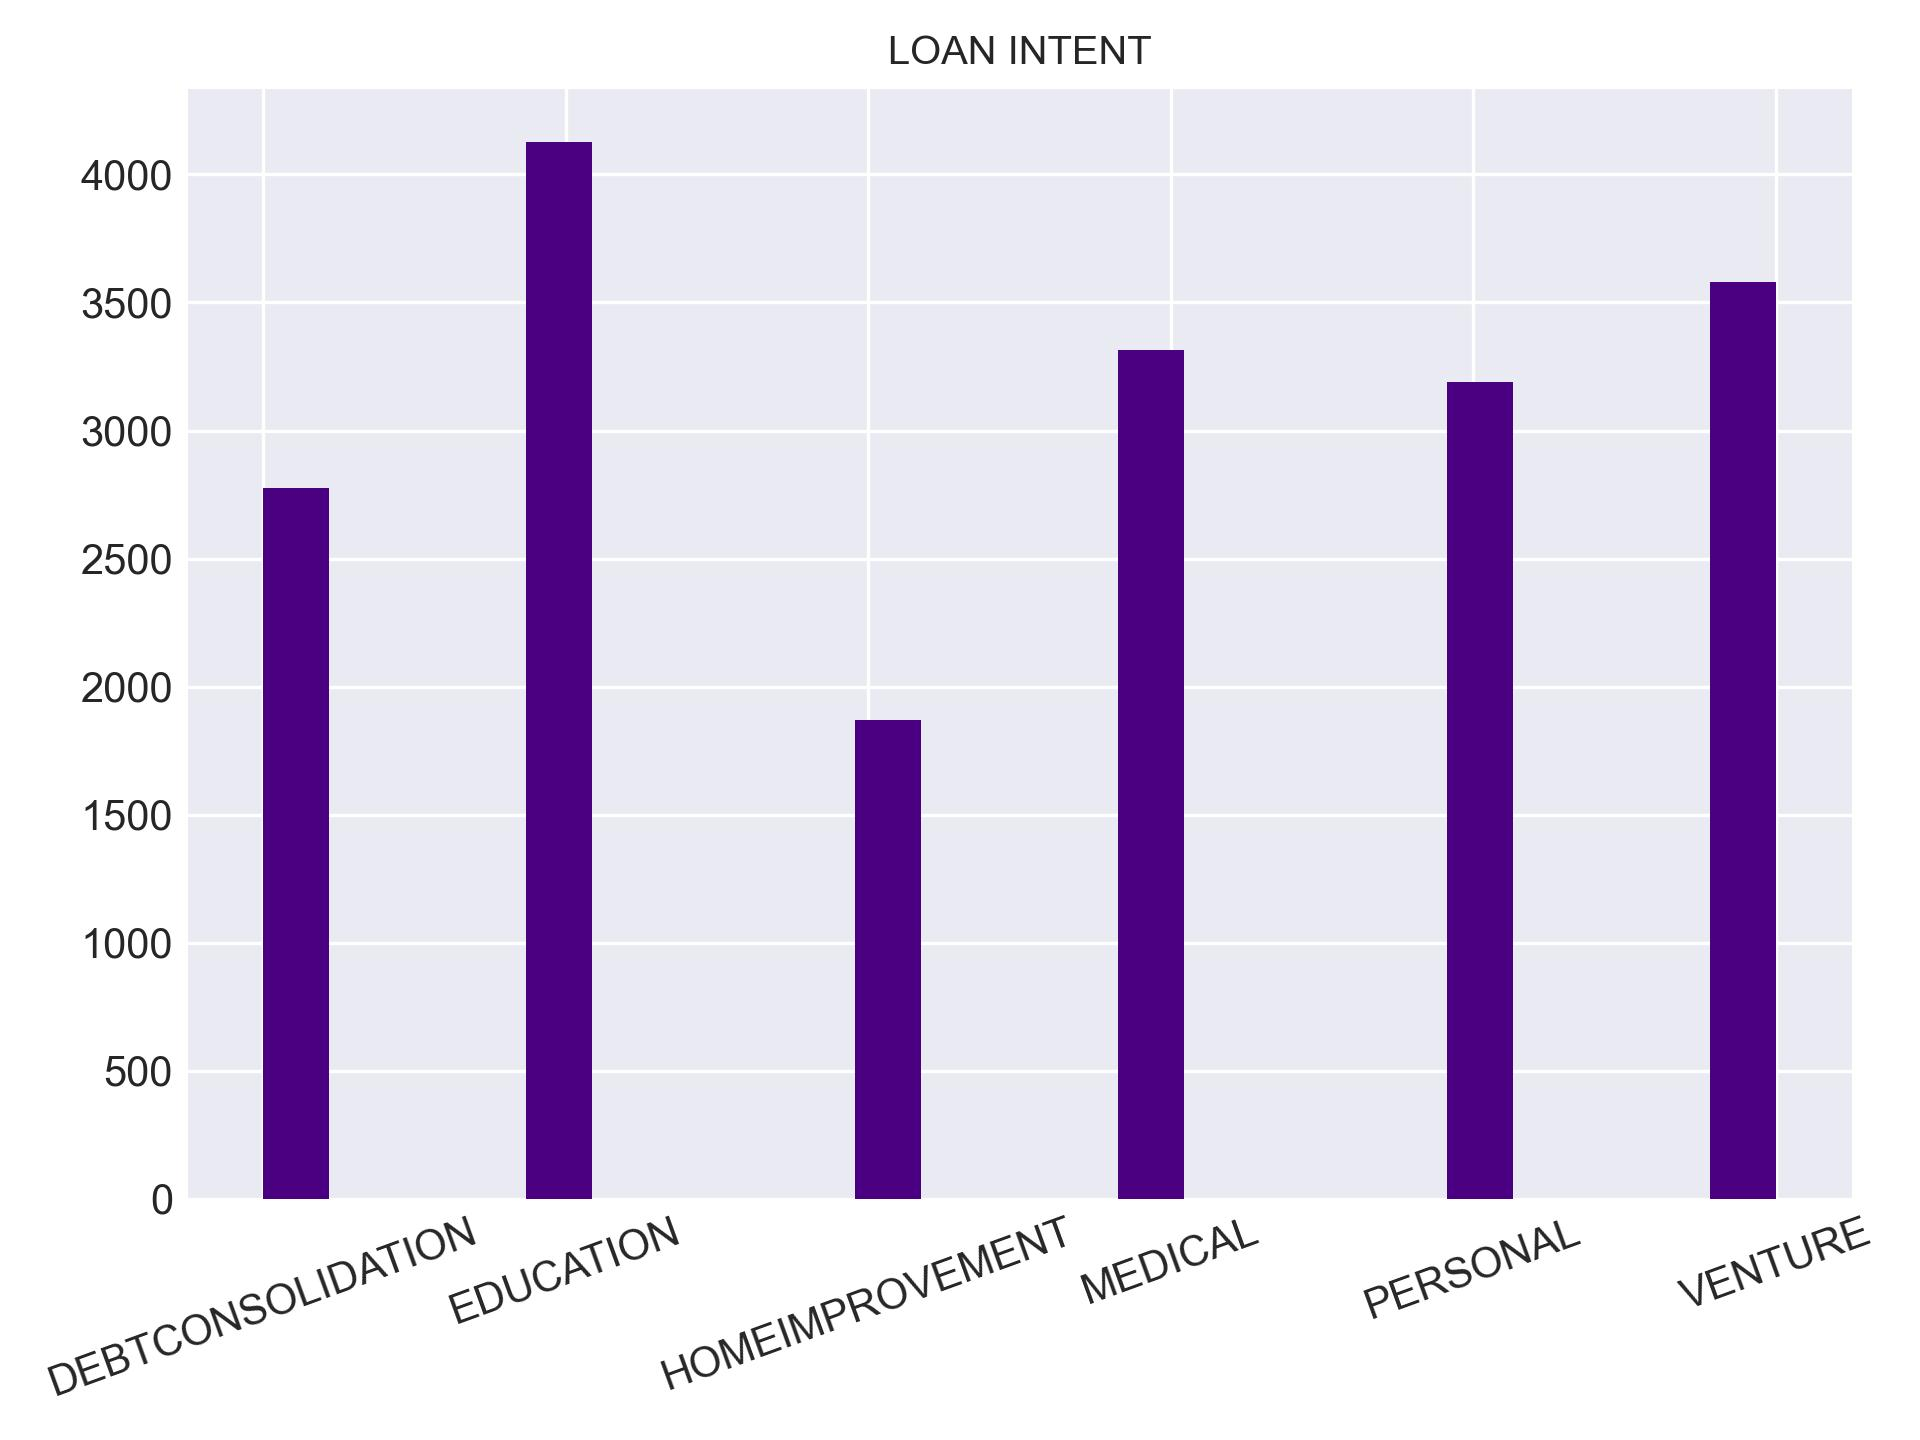
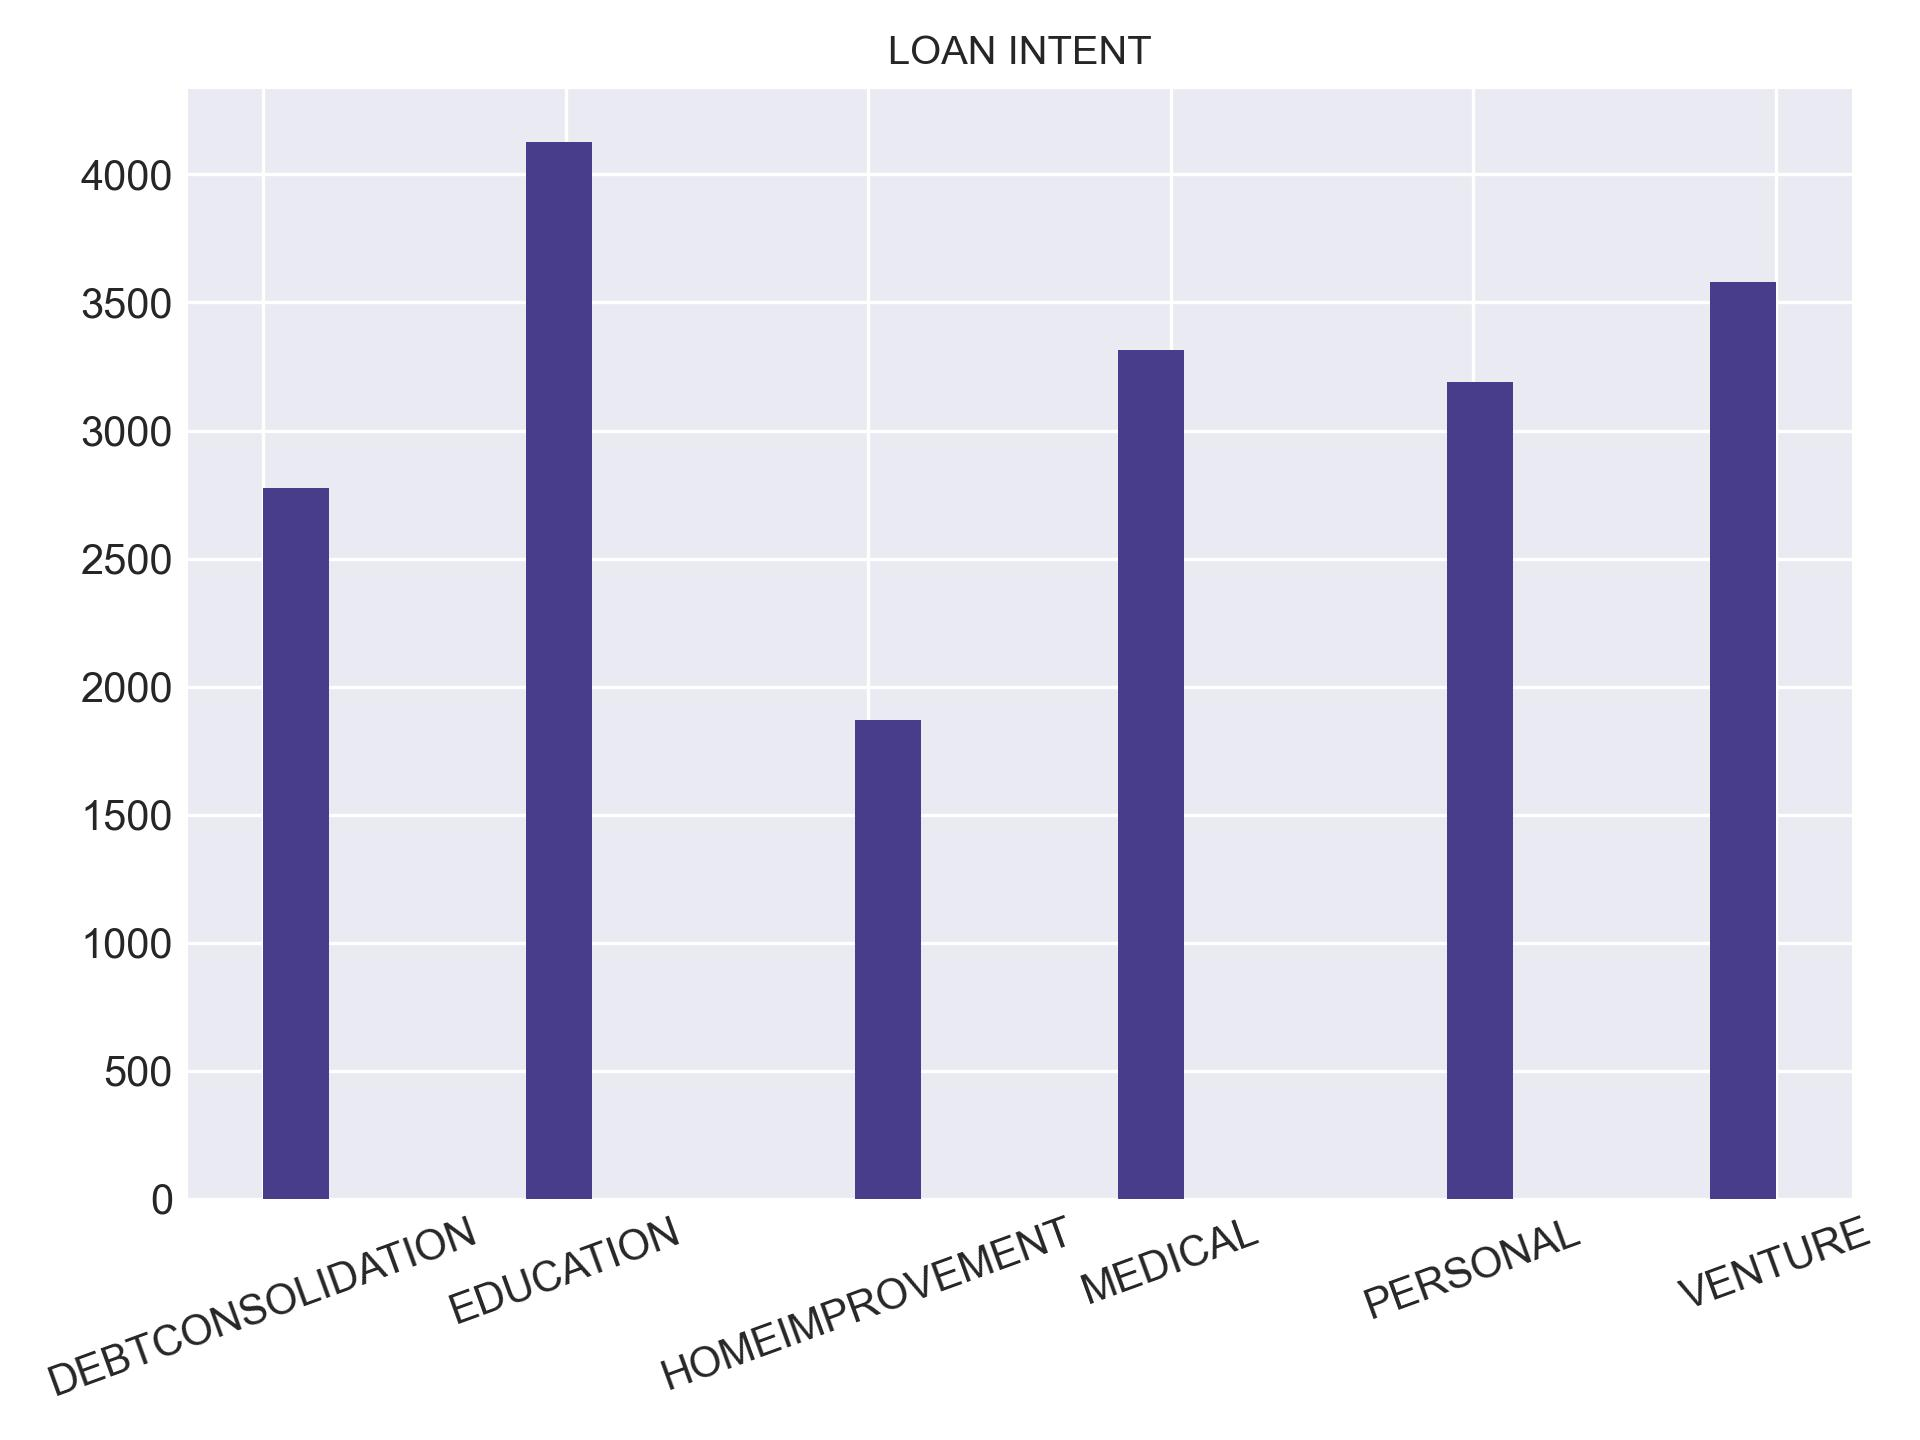
exploratory analysis method

diff --git a/exploratory_analysis.py b/exploratory_analysis.py
@@ -1,0 +1,84 @@
+from pandas import DataFrame, read_csv
+from seaborn import histplot, countplot
+from matplotlib import pyplot as plt
+
+
+class Exploratory_analysis:
+    """
+    Responsible for returning graphs and information provided by an exploratory analysis.
+
+    Required parameters:
+        data_frame: Data frame with the data.
+
+    Optional parameters:
+        main_variables: List with selected specific variables.
+        style_graph: Name with chart layout.
+        pallete: Color pallete.
+        color1: Setting color for graphics.
+        color2: Setting color for graphics.
+        color3: Setting color for graphics.
+        color4: Setting color for graphics.
+        color5: Setting color for graphics.
+    """
+
+    def __init__(self, data_frame, **kwargs):  
+        
+        # data
+        self.data_frame = data_frame
+        
+        # kwargs
+        main_variables = kwargs.get('main_variables')
+        style_graph = kwargs.get('style_graph')
+        palette = kwargs.get('palette')
+        color1 = kwargs.get('color1')
+        color2 = kwargs.get('color2')
+        color3 = kwargs.get('color3')
+        color4 = kwargs.get('color4')
+        color5 = kwargs.get('color5')
+        
+        self.style_graph = "seaborn" if not style_graph else style_graph
+        self.palette = "muted" if not palette else palette
+        self.color1 = "royalblue" if not color1 else color1
+        self.color2 = "crimson" if not color2 else color2
+        self.color3 = "darkorange" if not color3 else color3
+        self.color4 = "black" if not color4 else color4
+        self.color5 = "red" if not color5 else color5
+        
+        if main_variables:
+            self.main_variables = main_variables
+        
+        else:
+            self.main_variables = self.data_frame.columns
+        
+
+
+    def categorical_plot(self):
+        """
+        Plotting the information of the categorical variables.
+        """
+     
+        df_categorical = DataFrame(self.data_frame).drop("_id", axis=1)
+        df_cat = df_categorical.select_dtypes(exclude=['float64', 'int64'])
+        
+        fig, ax = plt.subplots(figsize=(18, 10), dpi=600)
+        
+        numb_plot = 0
+        
+        for col in df_cat:
+            # count
+            numb_plot += 1
+            
+            # plot
+            plt.subplot(2, 2, numb_plot)
+            
+            countplot(x=df_cat[col], 
+                      order = df_cat[col].value_counts().index,
+                      palette=self.palette)
+             
+            plt.rcParams.update({'font.size': 11})
+            plt.xlabel(f"{col.replace('_', ' ').title()}", fontsize=15)
+            plt.xticks(rotation = 8)
+        
+        plt.tight_layout()
+        
+        plt.savefig(f'1_results/5_categorical_attributes.jpeg')

diff --git a/main.py b/main.py
@@ -1,11 +1,12 @@
 from pandas import DataFrame
 from config import client, data_base, collection
 from config import main_variables
-from config import style_graph, color1, color2, color3, color4, color5
+from config import style_graph, palette, color1, color2, color3, color4, color5
 from mongodb_connection import Connection_mongodb
 from data_cleansing import Data_cleansing 
 from descriptive import Descriptive_stats
 from pathlib import Path
+from exploratory_analysis import Exploratory_analysis
 
 
 # make dir
@@ -43,3 +44,15 @@ desc_stats.graph_dependent_var()
 desc_stats.statistic_data()
 # ----------------------------------------------------------------------------
 
+# exploratory analysis
+# ----------------------------------------------------------------------------
+explorat_analysis = Exploratory_analysis(db_raw,
+                                         main_variables = main_variables,
+                                         style_graph = style_graph,
+                                         palette = palette,
+                                         color1 = color1, color2 = color2, 
+                                         color3 = color3, color4 = color4, 
+                                         color5 = color5)
+
+explorat_analysis.categorical_plot()
+# ----------------------------------------------------------------------------

diff --git a/data_cleansing.py b/data_cleansing.py
@@ -196,7 +196,7 @@ class Data_cleansing:
                          y='loan_amnt',
                          kind='scatter',
                          ax=ax,
-                         color='royalblue',
+                         color='darkslateblue',
                          alpha=0.15)
             
             # Outlier plot
@@ -204,7 +204,7 @@ class Data_cleansing:
                              y='loan_amnt',
                              kind='scatter',
                              ax=ax,
-                             color='crimson',
+                             color='tomato',
                              alpha=0.15)
             
             plt.tight_layout()

diff --git a/descriptive.py b/descriptive.py
@@ -1,4 +1,4 @@
-from pandas import DataFrame, read_csv, concat, merge
+from pandas import DataFrame, read_csv
 from matplotlib import pyplot as plt
 
 
@@ -99,7 +99,7 @@ class Descriptive_stats:
                 data_frame = self.data_frame.sort_values(by=col)
                 
                 # plot
-                plot_data = data_frame[col].hist(color = self.color2,
+                plot_data = data_frame[col].hist(color = self.color1,
                                             legend = False,
                                             bins = 'auto')
                 

diff --git a/config.py b/config.py
@@ -6,11 +6,12 @@ main_variables = ["loan_intent", "loan_amnt"]
 # plot
 # ----------------------------------------------------------------------------
 style_graph="seaborn-dark"
-color1="royalblue" 
-color2="indigo"
+palette="flare"
+color1="darkslateblue" 
+color2="tomato"
 color3="darkorange"
-color4="black"
-color5="red"
+color4="royalblue"
+color5="crimson"
 # ----------------------------------------------------------------------------
 
 # data base

diff --git a/0_files/restart_db.py b/0_files/restart_db.py
@@ -1,0 +1,16 @@
+from pymongo import MongoClient
+
+
+def copy_db():
+    client = MongoClient('mongodb://localhost:27017')
+
+    client.drop_database('credit_risk')
+
+    db_copy = list(client['db_credit_risk_bkp']['credit_risk'].find())
+
+    collection_reinsert = client['credit_risk']['credit_risk']
+
+    collection_reinsert.insert_many(db_copy)
+
+
+copy_db()

diff --git a/README.md b/README.md
@@ -101,6 +101,13 @@ cb_person_cred_hist_length|5.02|4.00|2.97|8.80|2.00|15.00
 >* $ 10,000 is the most obtained loan amount, but the average is $ 7,500.
 >* The average annual income of the people in this database is $ 57,000 per year. The person who earns the least has an income of $ 7,200 a year against $ 140,304 for the person who earns the most.
 
+## Categorical attributes
+<p align="left">
+	<br />
+ 	<img src="/1_results/5_categorical_attributes.jpeg" />
+	<br />
+	<br />
+</p>
 
 
 Under development...
